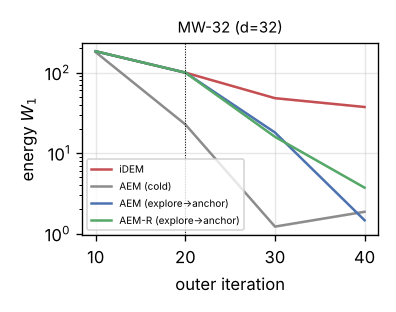
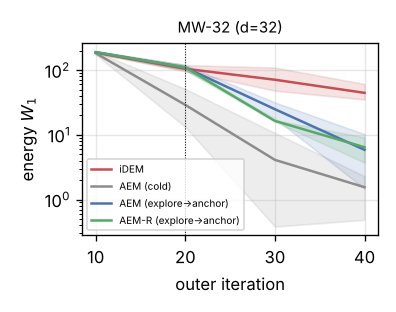
Draft experiments section skeleton

diff --git a/paper/sec_experiments.tex b/paper/sec_experiments.tex
@@ -1,0 +1,46 @@
+\section{Experiments}
+\label{sec:experiments}
+
+We ask three questions.
+(Q1)~Does anchoring reduce the bias and MSE of the score target as the theory predicts, including with an imperfect buffer?
+(Q2)~Does a less biased target give better samplers in full iDEM-style training?
+(Q3)~Where does anchoring fail, and does the failure match \cref{thm:contraction}?
+All methods share one codebase, network, noise schedule, test function, proposal count ($K=100$) and training budget (\cref{app:exp}). The only differences are the regression target and, for the explore$\to$anchor variants, the iteration at which the anchor is switched on.
+
+% -------------------------------------------------------------
+\subsection{Estimator study (Q1)}
+\label{sec:exp-estimator}
+For GMM-40 we can sample the posterior $\pi_t(\cdot\mid x_t)$ exactly and evaluate $\nabla\log p_t$ in closed form, so bias and variance can be measured directly.
+\Cref{fig:estimator} reports the relative MSE and relative squared bias of each estimator over 12 noise levels, averaged over 256 points and 32 independent repeats. In each repeat the proposals and the anchor are redrawn.
+\input{sec_exp_estimator_text}
+
+\begin{figure*}[t]
+\centering
+\includegraphics[width=\textwidth]{fig_estimator_gmm40.pdf}
+\caption{\textbf{Estimator study on GMM-40.} Relative MSE (top) and debiased relative squared bias (bottom) of the noised-score target against $\sigma_t$, for iDEM (dashed) and AEM (solid) with TSI or DSI test functions. Columns use exact anchors (left), anchors from a tempered target (centre) and anchors from a target missing half of its modes (right). With exact anchors AEM is unbiased for every $K$, including $K=0$. iDEM's bias grows by orders of magnitude with $\sigma_t$.}
+\label{fig:estimator}
+\end{figure*}
+
+% -------------------------------------------------------------
+\subsection{Training samplers (Q2)}
+\label{sec:exp-training}
+\input{sec_exp_training_text}
+
+\begin{table*}[t]
+\centering
+\caption{\textbf{Sampler quality after 40 outer iterations} (mean $\pm$ std over 3 seeds; lower is better, except that the variance ratio should be $1$). All methods use the same budget and target function. The variance ratio measures within-mode spread (truth $=1$); iDEM's fixed-point bias inflates it. Bold marks the best mean in each column (for the variance ratio, the closest to $1$).}
+\label{tab:main}
+\small
+\begin{tabular}{lccccc}
+\toprule
+Method & $\mathcal{W}_2$ & $\mathcal{E}$-$\mathcal{W}_1$ & MMD & mode TV & var.\ ratio \\
+\midrule
+\input{tab_main_body}
+\bottomrule
+\end{tabular}
+\end{table*}
+
+% -------------------------------------------------------------
+\subsection{Where anchoring fails (Q3)}
+\label{sec:exp-ablation}
+\input{sec_exp_failure_text}

diff --git a/paper/tab_main_body.tex b/paper/tab_main_body.tex
@@ -1,5 +1,5 @@
 \multicolumn{6}{l}{\textbf{MW-32 ($d{=}32$)}}\\
-iDEM & 8.47{\scriptsize$\pm$0} & 37.4{\scriptsize$\pm$0} & \textbf{0.0549{\scriptsize$\pm$0}} & \textbf{0.511{\scriptsize$\pm$0}} & 4.51{\scriptsize$\pm$0} \\  % n=1
-AEM (cold) & 6.37{\scriptsize$\pm$0} & 1.87{\scriptsize$\pm$0} & 0.0977{\scriptsize$\pm$0} & 0.512{\scriptsize$\pm$0} & 1.08{\scriptsize$\pm$0} \\  % n=1
-AEM (explore$\to$anchor) & \textbf{6.35{\scriptsize$\pm$0}} & \textbf{1.47{\scriptsize$\pm$0}} & 0.0948{\scriptsize$\pm$0} & 0.512{\scriptsize$\pm$0} & 1.09{\scriptsize$\pm$0} \\  % n=1
-AEM-R (explore$\to$anchor) & 6.38{\scriptsize$\pm$0} & 3.72{\scriptsize$\pm$0} & 0.115{\scriptsize$\pm$0} & 0.512{\scriptsize$\pm$0} & \textbf{0.982{\scriptsize$\pm$0}} \\  % n=1
+iDEM & 8.35{\scriptsize$\pm$0.25} & 44.5{\scriptsize$\pm$12} & \textbf{0.0639{\scriptsize$\pm$0.012}} & \textbf{0.573{\scriptsize$\pm$0.22}} & 4.14{\scriptsize$\pm$0.36} \\  % n=3
+AEM (cold) & 7.09{\scriptsize$\pm$0.67} & \textbf{1.55{\scriptsize$\pm$0.77}} & 0.207{\scriptsize$\pm$0.1} & 0.775{\scriptsize$\pm$0.19} & \textbf{1.05{\scriptsize$\pm$0.028}} \\  % n=3
+AEM (explore$\to$anchor) & 7.23{\scriptsize$\pm$0.88} & 5.86{\scriptsize$\pm$4.4} & 0.225{\scriptsize$\pm$0.13} & 0.693{\scriptsize$\pm$0.18} & 1.04{\scriptsize$\pm$0.055} \\  % n=2
+AEM-R (explore$\to$anchor) & \textbf{7.07{\scriptsize$\pm$0.69}} & 6.43{\scriptsize$\pm$2.7} & 0.193{\scriptsize$\pm$0.078} & 0.621{\scriptsize$\pm$0.11} & 1.06{\scriptsize$\pm$0.076} \\  % n=2
